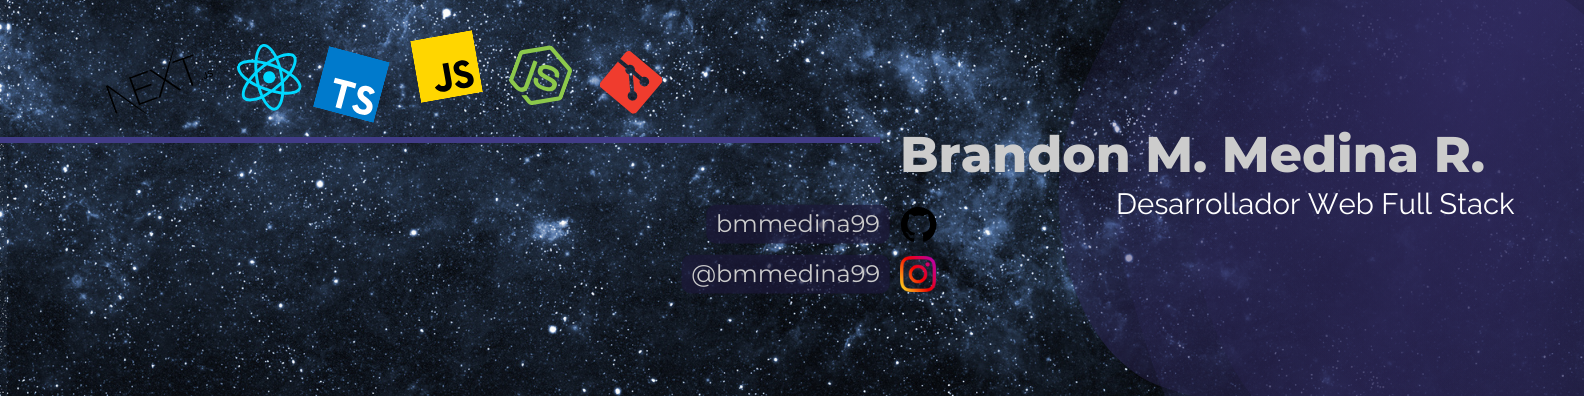
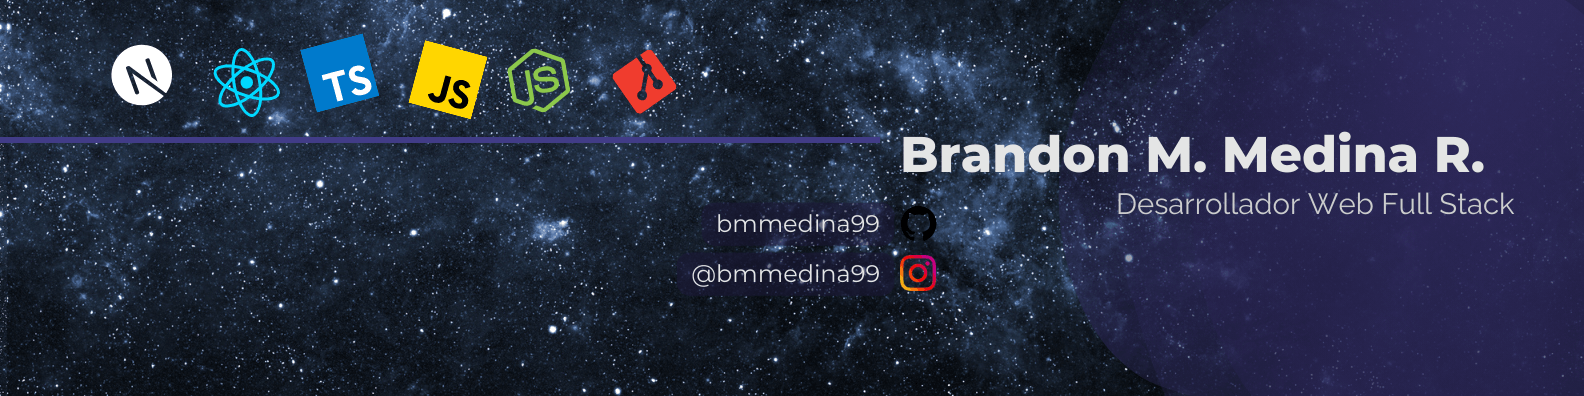
Update img and README

diff --git a/README.md b/README.md
@@ -14,28 +14,31 @@
 
 ### Frontend
 
-<a href="https://www.w3.org/html/" target="_blank" rel="noreferrer"> <img src="https://raw.githubusercontent.com/devicons/devicon/master/icons/html5/html5-original-wordmark.svg" alt="html5" width="40" height="40"/> </a>&nbsp;&nbsp;
-<a href="https://www.w3schools.com/css/" target="_blank" rel="noreferrer"> <img src="https://raw.githubusercontent.com/devicons/devicon/master/icons/css3/css3-original-wordmark.svg" alt="css3" width="40" height="40"/> </a>&nbsp;&nbsp;
-<a href="https://reactjs.org/" target="_blank" rel="noreferrer"> <img src="https://raw.githubusercontent.com/devicons/devicon/master/icons/react/react-original-wordmark.svg" alt="react" width="40" height="40"/> </a>&nbsp;&nbsp;
-<a href="https://tailwindcss.com/" target="_blank" rel="noreferrer"> <img src="https://www.vectorlogo.zone/logos/tailwindcss/tailwindcss-icon.svg" alt="tailwind" width="40" height="40"/> </a>&nbsp;&nbsp;
+![HTML5](https://img.shields.io/badge/html5-%23E34F26.svg?style=for-the-badge&logo=html5&logoColor=white)
+![CSS3](https://img.shields.io/badge/css3-%231572B6.svg?style=for-the-badge&logo=css3&logoColor=white)
+![React](https://img.shields.io/badge/react-%2320232a.svg?style=for-the-badge&logo=react&logoColor=%2361DAFB)
+![TailwindCSS](https://img.shields.io/badge/tailwindcss-%2338B2AC.svg?style=for-the-badge&logo=tailwind-css&logoColor=white)
+![DaisyUI](https://img.shields.io/badge/daisyui-5A0EF8?style=for-the-badge&logo=daisyui&logoColor=white)
 
 ### Backend
 
-<a href="https://developer.mozilla.org/es/docs/Web/JavaScript" target="_blank" rel="noreferrer"> <img src="https://raw.githubusercontent.com/devicons/devicon/master/icons/javascript/javascript-original.svg" alt="javascript" width="40" height="40"/> </a>&nbsp;&nbsp;
-<a href="https://www.typescriptlang.org/" target="_blank" rel="noreferrer"> <img src="https://raw.githubusercontent.com/devicons/devicon/master/icons/typescript/typescript-original.svg" alt="typescript" width="40" height="40"/> </a>&nbsp;&nbsp;
-<a href="https://nodejs.org" target="_blank" rel="noreferrer"> <img src="https://raw.githubusercontent.com/devicons/devicon/master/icons/nodejs/nodejs-original-wordmark.svg" alt="nodejs" width="40" height="40"/> </a>&nbsp;&nbsp;
-<a href="https://expressjs.com" target="_blank" rel="noreferrer"> <img src="https://raw.githubusercontent.com/devicons/devicon/master/icons/express/express-original-wordmark.svg" alt="express" width="40" height="40"/> </a>&nbsp;&nbsp;
+![JavaScript](https://img.shields.io/badge/javascript-%23323330.svg?style=for-the-badge&logo=javascript&logoColor=%23F7DF1E)
+![TypeScript](https://img.shields.io/badge/typescript-%23007ACC.svg?style=for-the-badge&logo=typescript&logoColor=white)
+![NodeJS](https://img.shields.io/badge/node.js-6DA55F?style=for-the-badge&logo=node.js&logoColor=white)
+![Express.js](https://img.shields.io/badge/express.js-%23404d59.svg?style=for-the-badge&logo=express&logoColor=%2361DAFB)
+![Bun](https://img.shields.io/badge/Bun-%23000000.svg?style=for-the-badge&logo=bun&logoColor=white)
 
 ### Base de datos
 
-<a href="https://www.postgresql.org" target="_blank" rel="noreferrer"> <img src="https://raw.githubusercontent.com/devicons/devicon/master/icons/postgresql/postgresql-original-wordmark.svg" alt="postgresql" width="40" height="40"/> </a>&nbsp;&nbsp;
-<a href="https://mariadb.org/" target="_blank" rel="noreferrer"> <img src="https://www.vectorlogo.zone/logos/mariadb/mariadb-icon.svg" alt="mariadb" width="40" height="40"/> </a>&nbsp;&nbsp;
-<a href="https://www.mongodb.com/" target="_blank" rel="noreferrer"> <img src="https://raw.githubusercontent.com/devicons/devicon/master/icons/mongodb/mongodb-original-wordmark.svg" alt="mongodb" width="40" height="40"/> </a>&nbsp;&nbsp;
-<a href="https://redis.io" target="_blank" rel="noreferrer"> <img src="https://raw.githubusercontent.com/devicons/devicon/master/icons/redis/redis-original-wordmark.svg" alt="redis" width="40" height="40"/> </a>&nbsp;&nbsp;
+![Postgres](https://img.shields.io/badge/postgres-%23316192.svg?style=for-the-badge&logo=postgresql&logoColor=white)
+![MariaDB](https://img.shields.io/badge/MariaDB-003545?style=for-the-badge&logo=mariadb&logoColor=white)
+![Supabase](https://img.shields.io/badge/Supabase-3ECF8E?style=for-the-badge&logo=supabase&logoColor=white)
+![SQLite](https://img.shields.io/badge/sqlite-%2307405e.svg?style=for-the-badge&logo=sqlite&logoColor=white)
 
 ### Herramientas
 
-<a href="https://code.visualstudio.com" target="_blank" rel="noreferrer"> <img src="https://raw.githubusercontent.com/devicons/devicon/master/icons/vscode/vscode-original.svg" alt="vscode" width="40" height="40"/> </a>&nbsp;&nbsp;
-<a href="https://git-scm.com/" target="_blank" rel="noreferrer"> <img src="https://www.vectorlogo.zone/logos/git-scm/git-scm-icon.svg" alt="git" width="40" height="40"/> </a>&nbsp;&nbsp;
-<a href="https://www.linux.org/" target="_blank" rel="noreferrer"> <img src="https://raw.githubusercontent.com/devicons/devicon/master/icons/linux/linux-original.svg" alt="linux" width="40" height="40"/> </a>&nbsp;&nbsp;
-<a href="https://www.docker.com/" target="_blank" rel="noreferrer"> <img src="https://raw.githubusercontent.com/devicons/devicon/master/icons/docker/docker-original-wordmark.svg" alt="docker" width="40" height="40"/> </a>&nbsp;&nbsp;
+![Visual Studio Code](https://img.shields.io/badge/Visual%20Studio%20Code-0078d7.svg?style=for-the-badge&logo=visual-studio-code&logoColor=white)
+![Git](https://img.shields.io/badge/git-%23F05033.svg?style=for-the-badge&logo=git&logoColor=white)
+![GitHub](https://img.shields.io/badge/github-%23121011.svg?style=for-the-badge&logo=github&logoColor=white)
+![Ubuntu](https://img.shields.io/badge/Ubuntu-E95420?style=for-the-badge&logo=ubuntu&logoColor=white)
+![Vim](https://img.shields.io/badge/VIM-%2311AB00.svg?style=for-the-badge&logo=vim&logoColor=white)
